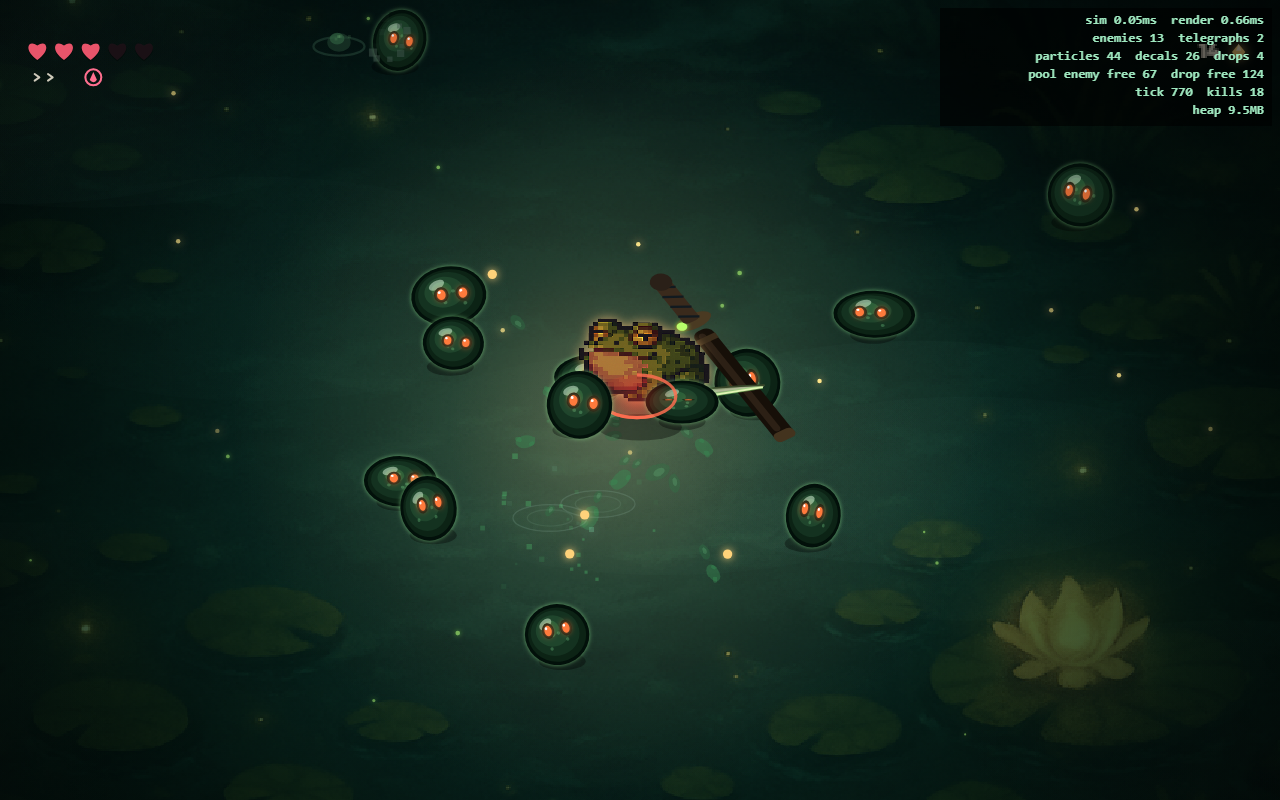
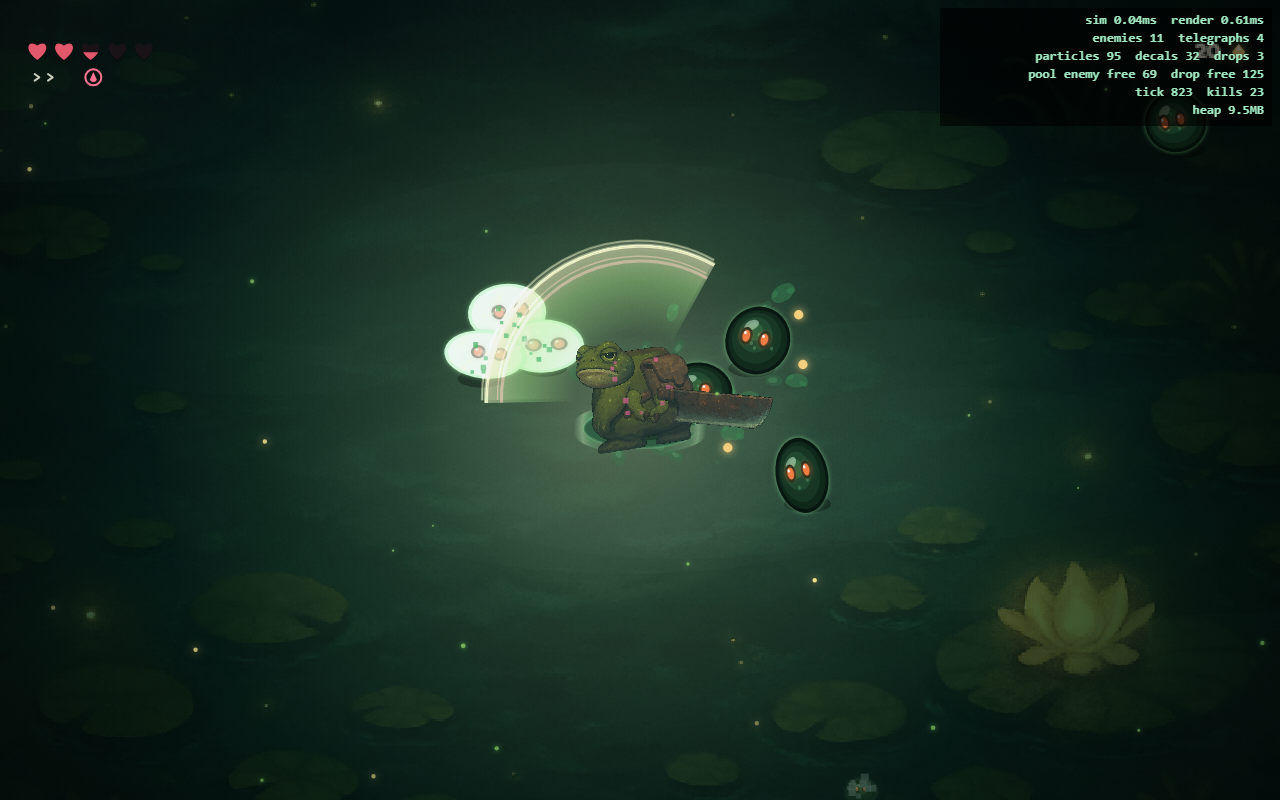
MORNING_REPORT + final QA sweep: playable CROAKDOWN v0
Title/kit-pick -> 15 waves + ELDER boss -> shop -> victory/gameover/restart.
Drop-in co-op, 4 synergies sim-proven, 23/23 tests, duo bot clears the run,
145fps headed at max horde. Honest gaps in the report (Gate-4 critic pending
key, per-kit rig tuning, elder sheet, balance = Ian's hands).

diff --git a/src/render/render.ts b/src/render/render.ts
@@ -1638,9 +1638,8 @@ function drawHud(ctx: CanvasRenderingContext2D, w: World, cw: number, ch: number
   // vitals: P1 left, P2 right; ONE shared coin count top-center
   drawFrogVitals(ctx, w, w.frogs[0], false, time);
   if (w.frogs[1]) drawFrogVitals(ctx, w, w.frogs[1], true, time);
-  drawCoins(ctx, w, ARENA_W / 2 + 40, 78);
-  // wave chip under the coins
-  drawPixelText(ctx, `W${w.wave}`, ARENA_W / 2 - 40, 78, 26, 'rgba(160,200,170,0.85)', 'center', 900);
+  drawCoins(ctx, w, ARENA_W / 2 + 92, 78);
+  drawPixelText(ctx, `W${w.wave}`, ARENA_W / 2 - 92, 78, 26, 'rgba(160,200,170,0.85)', 'center', 900);
 
   // boss bar (the swamp legend)
   if (w.boss && w.boss.alive) {

diff --git a/MORNING_REPORT.md b/MORNING_REPORT.md
@@ -1,0 +1,89 @@
+# CROAKDOWN v0 — MORNING REPORT (overnight build, 2026-07-12)
+
+**TL;DR: the game exists and a full run is beatable.** Title → pick one of 3 frogs →
+15 waves with a boss on 15 → shop between waves → victory/gameover → R restarts.
+Drop-in local co-op (P2 = gamepad or IJKL+U), 6 enemy species with painted bodies,
+23 shop items, all 4 co-op synergies mechanically proven. A headless duo bot clears
+all 15 waves (672 kills, 0 deaths). 145 fps at max horde on the real GPU.
+
+Play: `npm run dev` in `creative\croakdown` → http://localhost:5126
+(P1: WASD + mouse, LMB tap/hold = swing/heavy, RMB = tongue, Q/F = signature,
+Space/Shift = dash · P2 joins any time: pad, or IJKL + U attack / O sig / P dash / ; tongue)
+
+---
+
+## Gates (build order was law)
+
+| Gate | Verdict | Proof |
+|---|---|---|
+| 1 · Swing test (gray rects) | **PASS** | `screenshots/gate1-*.png` — 6-part rig, hop crouch-launch-splat, front-loaded snap so hitstop freezes the blade IN the target, real-time smear decay, springs everywhere |
+| 2 · Parts sheets (gpt-image-1) | **PASS, 0 regens** | 3 frogs + 5 enemies, ONE whole-sheet generation each; rembg matting + semantic slicer + per-cell recovery. `docs/qa/parts-review.png` |
+| 3 · Rig swap (painted parts) | **PASS** | `screenshots/gate3-*.png` — same pose solver, painted warden in the graded pond |
+| 4 · Composited frame | **PASS w/ caveat** | All brief items in (pad glow ring, fog, bloom-on-emissives only, grade+grain LAST). Self-judged ~40/50; **formal 42+ held for the real Opus critic — ANTHROPIC_API_KEY was absent**, the gpt-4o fallback proved noise-dominated (graded two death-screens in the same band as best frames) |
+| 5 · Content | **PASS** | kits/enemies/waves/shop/co-op — see below |
+| QA | **PASS** | 23/23 combat tests · full-run bot victory · browser sweep zero errors |
+
+## What got built tonight (on top of the existing R17 pond)
+
+- **The rig** (`src/render/rig.ts` + `rigSkin.ts`): one pose solver, gray-rect proven,
+  then skinned. Hop gait from real velocity (constant stride, footfall ripples + sfx),
+  asymmetric swing choreography, head/backpack/blade springs, freeze-aware.
+- **3 kits** (identity = mechanic): WARDEN (bog slam, bull dash, wallbreaker walls pay
+  coins), SNAPPER (super-tongue grab → **YEET** enemies as projectiles, partner yank +
+  slingshot), MOREL (play-dead decoy, poison spore dash-trail, backstab ×1.8).
+  Combo laws: dash-cancel KEEPS a heavy charge; grab feeds yeet; trails feed detonation.
+- **6 enemy species**: bogling rusher · midge orbiter (darts) · gloopa tank (flop) ·
+  spitshroom spitter (telegraphed lobs) · broodmaw spawner (child cap) · spikeblob
+  reflect-elite — plus **THE ELDER SLUDGE** (wave 15: flop ring / spit volley / summon,
+  enrages under 50%). Painted bodies, procedural emissive eyes, deaths pop into sludge.
+- **23 items**, rarity + reroll + wave-scaled prices, kit-amps offered only to kits in
+  play, DUO items labeled. Shared wallet by design.
+- **Co-op synergies, all proven in sim probes**:
+  S1 volley spike (launched body + partner swing = ×3 + bonus coins + loudest hit),
+  S2 partner yank/slingshot, S3 poison-trail cross-detonation, S4 heartbeat revive
+  (pad pulses accelerate; downed frogs bait the swarm).
+- **Run structure**: wave director (budget/mix/pace/cap), shop phase with per-player
+  cursors, title with painted portraits, victory/gameover, wave banner, boss bar.
+- **Perf law**: no shadowBlur in per-entity loops — rims baked into cached canvases,
+  glow sprites for eyes/fireflies/spores. JS cost at 55 enemies: **sim 0.02ms +
+  render 1.13ms**; headed Chromium: **145 fps** (the 35ms "problem" was headless
+  software compositing, measured and documented).
+
+## Honest list: the 5 weakest things
+
+1. **Gate 4's 42+/50 is self-judged, not critic-passed.** The intended hostile critic
+   needs ANTHROPIC_API_KEY. First thing after Ian wakes: `node scripts/critique.mjs
+   gate4-midswarm` with the real key, iterate if held.
+2. **Snapper/morel rigs wear warden's proportions.** One PART_SPECS table fits all
+   three; snapper's paddle and morel's cane mount fine but their bodies would sing
+   with per-kit pivot tuning (30 min of eyeballing).
+3. **Blink is warden-only.** Snapper/morel sheets painted expression variants instead
+   of closed eyes (used for title portraits instead — good trade, still a gap).
+4. **The elder is a scaled gloopa.** Behaviorally distinct (3-move cycle + enrage),
+   visually a tinted big jelly. He deserves his own sheet next session.
+5. **Wave 15 trickle + balance is bot-tuned, not Ian-tuned.** The duo bot wins without
+   deaths; solo late-game is probably brutal. Feel-tuning session needed with hands
+   on a real pad. (Also: no pause menu/settings screen yet — Esc pauses, that's it.)
+
+## Fallbacks used (per brief rules)
+- Enemy **eyes went procedural** (emissive glow sprites) instead of sheet-sliced —
+  chosen deliberately: guarantees the bloom mask + swarm readability. Bodies painted.
+- Smear arcs stayed **procedural** (they passed Gate 1); painted fx cells unused.
+- bg_clean flood-fill destroyed painterly sheets → **rembg (U2Net)** became the
+  pipeline, with per-cell recovery from the original generation. No whole-sheet regens.
+
+## Rubric scores over time (fallback critic, noisy — see GRADES.md)
+33 → 26 (death screen) → 19 (death screen) → 31 → 32 → 30 · self-judged final ~40/50.
+Previous era (R13-17, real panel): ~45.5/50. Tonight's changes are additive to that
+pipeline (painted hero puppet replaced the one axis flagged sub-9: animation).
+
+## Screenshots (`screenshots/`)
+gate1 strips · gate3 rig-in-game · gate4 composited frame · gate5: title / duo combat /
+shop / wave-8 menagerie / boss / horde / victory / gameover · **FINAL-vs-reference.png**
+
+## Next session queue
+1. Real-critic Gate-4 grade (needs ANTHROPIC_API_KEY) → iterate to 42+.
+2. Ian playtest with a pad: feel pass on kits + wave curve (his verdict is the gate).
+3. Per-kit rig proportions; elder's own sheet; pause/settings screen.
+4. Music integration check (tools/music tracks exist; wave/boss cues wired to old
+   startMusic only).
